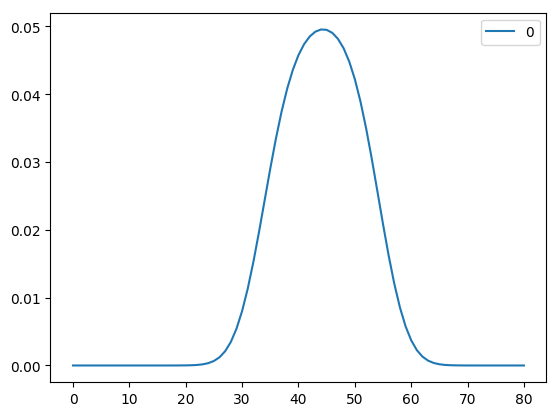
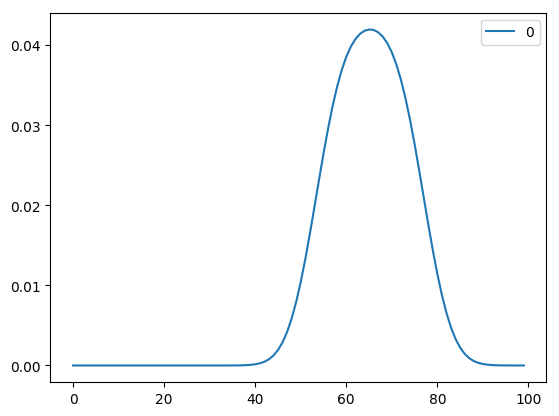
calculate fair score representations

diff --git a/src/cfa/cfa.py b/src/cfa/cfa.py
@@ -7,20 +7,17 @@ Created on Sep 27, 2018
 import ot
 import numpy as np
 import pandas as pd
-import math
 import matplotlib.pyplot as plt
-from scipy import stats
 
 
-def continuousFairnessAlgorithm(data, groupSizePercent, thetas, regForOT, path='.', plot=False):
+def continuousFairnessAlgorithm(data, score_ranges, thetas, regForOT, path='.', plot=False):
     """
     TODO: write that algorithm assumes finite integer scores, so no floating scores are allowed
-    if scores are given as floats, they have to be represented somehow as integers first, otherwise
-    the algorithm doesn't work
+    and they have to be represented somehow as integers, otherwise the algorithm doesn't work
 
     @param data:         pandas dataframe with scores per group, groups do not necessarily have same
                          amount of scores, i.e. data might contain NaNs
-    @param groupSizePercent:  vector of proportions of items from each group in the total dataset
+    @param score_ranges: tuple that contains the lower and upper most possible score
     @param thetas:       vector of parameters that determine how close a distribution is to be moved to
                          the general barycenter. One theta per group.
                          theta of 1 means that a group distribution is totally moved into the general
@@ -29,24 +26,27 @@ def continuousFairnessAlgorithm(data, groupSizePercent, thetas, regForOT, path='
     @param regForOT:     regularization parameter for optimal transport, see ot docs for details
     """
 
+    # calculate group sizes in total and percent
+    groupSizes = data.count()
+    groupSizesPercent = data.count().divide(groupSizes.sum())
+
     # calculate general edges for column histograms
-    num_bins = int(data.max().max()) + 10
+    score_values = np.arange(score_ranges[0], score_ranges[1] + 1)
+    num_bins = int(score_values.max())
     bin_edges = np.arange(num_bins + 1)  # len(bin_edges[1:])
     dataAsHistograms = pd.DataFrame()
 
-    # get normalized histogram from each column and save to new dataframe
+    # get histogram from each column and save to new dataframe
     for colName in data.columns:
         colNoNans = pd.DataFrame(data[colName][~np.isnan(data[colName])])
         colAsHist = np.histogram(colNoNans[colName], bins=bin_edges, density=True)[0]
-#         colAsHist = np.histogram(colNoNans[colName], bins=num_bins, density=True)[0]
         dataAsHistograms[colName] = colAsHist
 
     if dataAsHistograms.isnull().values.any():
         raise ValueError("Histogram data contains nans")
 
     if plot:
-        ax = dataAsHistograms.plot(kind='line', use_index=False)
-        # ax.set_xticklabels(np.around(bin_edges[1:], decimals=2))
+        dataAsHistograms.plot(kind='line', use_index=False)
         plt.savefig(path + 'dataAsHistograms.png', dpi=100, bbox_inches='tight')
 
     # loss matrix + normalization
@@ -54,9 +54,9 @@ def continuousFairnessAlgorithm(data, groupSizePercent, thetas, regForOT, path='
     loss_matrix /= loss_matrix.max()
 
     # compute general barycenter of all score distributions
-    weights = groupSizePercent.values
+    weights = groupSizesPercent.values
     total_bary = ot.bregman.barycenter(dataAsHistograms, loss_matrix, regForOT,
-                                       weights=groupSizePercent.values,
+                                       weights=groupSizesPercent.values,
                                        verbose=True, log=True)[0]
     if plot:
         baryFrame = pd.DataFrame(total_bary)
@@ -76,7 +76,26 @@ def continuousFairnessAlgorithm(data, groupSizePercent, thetas, regForOT, path='
                                                              weights=weights, verbose=True, log=True)[0]
 
     if plot:
-        ax = group_barycenters.plot(kind='line', use_index=False)
-        # ax.set_xticklabels(np.around(bin_edges[1:], decimals=2))
+        group_barycenters.plot(kind='line', use_index=False)
         plt.savefig(path + 'groupBarycenters.png', dpi=100, bbox_inches='tight')
 
+    # calculate new scores from group barycenters
+    group_fair_scores = pd.DataFrame(columns=dataAsHistograms.columns.values.tolist())
+    for groupName in dataAsHistograms:
+        ot_matrix = ot.emd(dataAsHistograms[groupName],
+                           group_barycenters[groupName],
+                           loss_matrix)
+        # TODO: landet man damit auf jeden Fall im gleichen Score Range?
+        group_fair_scores[groupName] = np.matmul(ot_matrix, score_values.T)
+
+#         group_fair_scores[groupName] =
+    if plot:
+        group_fair_scores.plot(kind='line', use_index=False)
+        plt.savefig(path + 'fairScoresPerGroup.png', dpi=100, bbox_inches='tight')
+
+    data_fair_scores = pd.DataFrame(columns=data.columns.values.tolist())
+    for colName in data.columns:
+        colNoNans = pd.DataFrame(data[colName][~np.isnan(data[colName])])
+
+    # use stats.percentileofscore um herauszufinden, an welcher Stelle im Gruppenranking einer prozentual war
+    # packe ihn in das gleiche Percentile im Barycenter wieder hinein...
